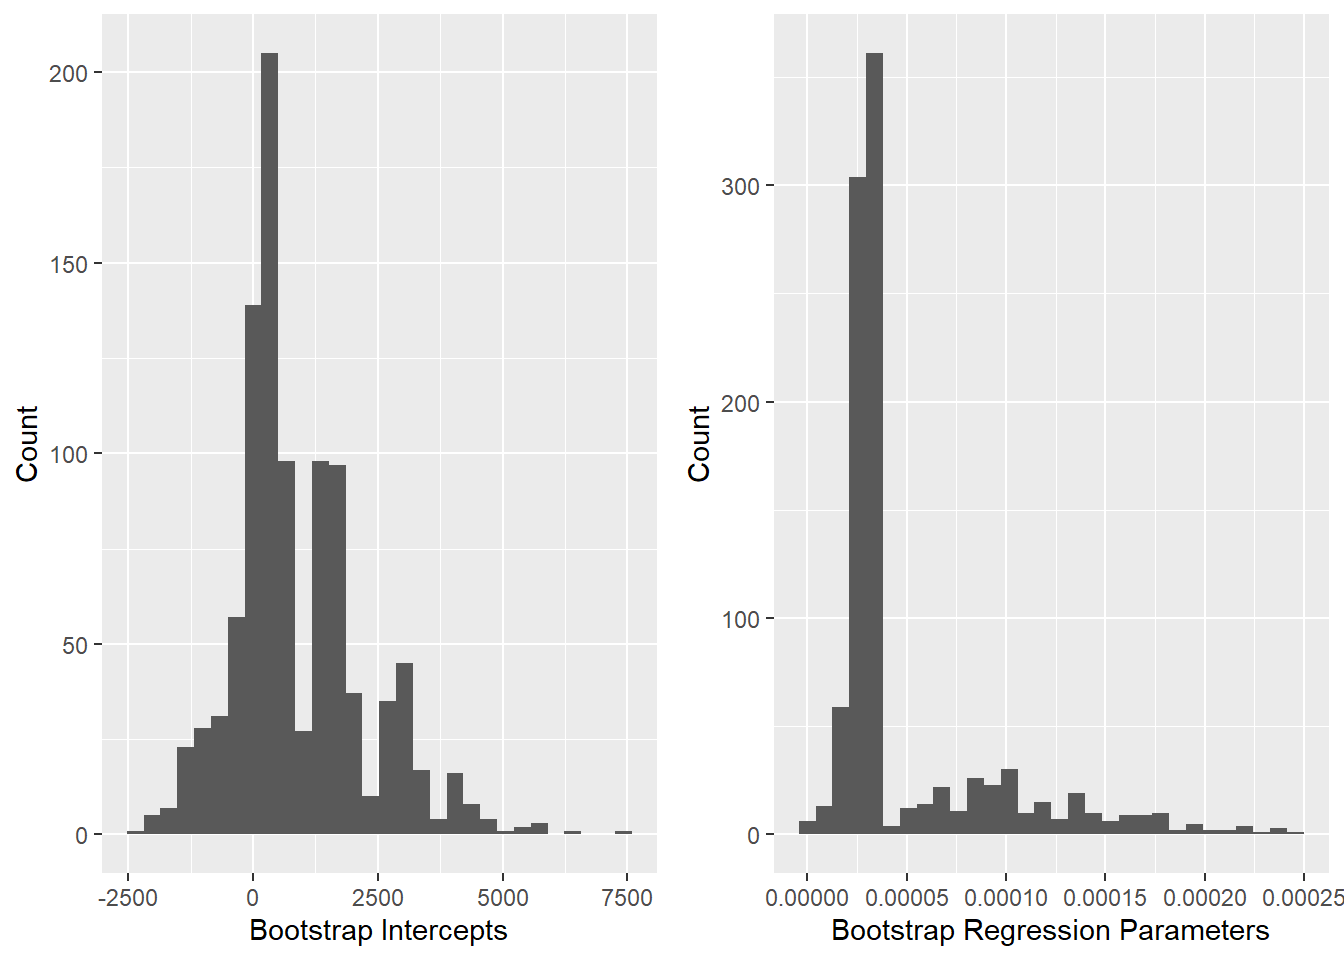
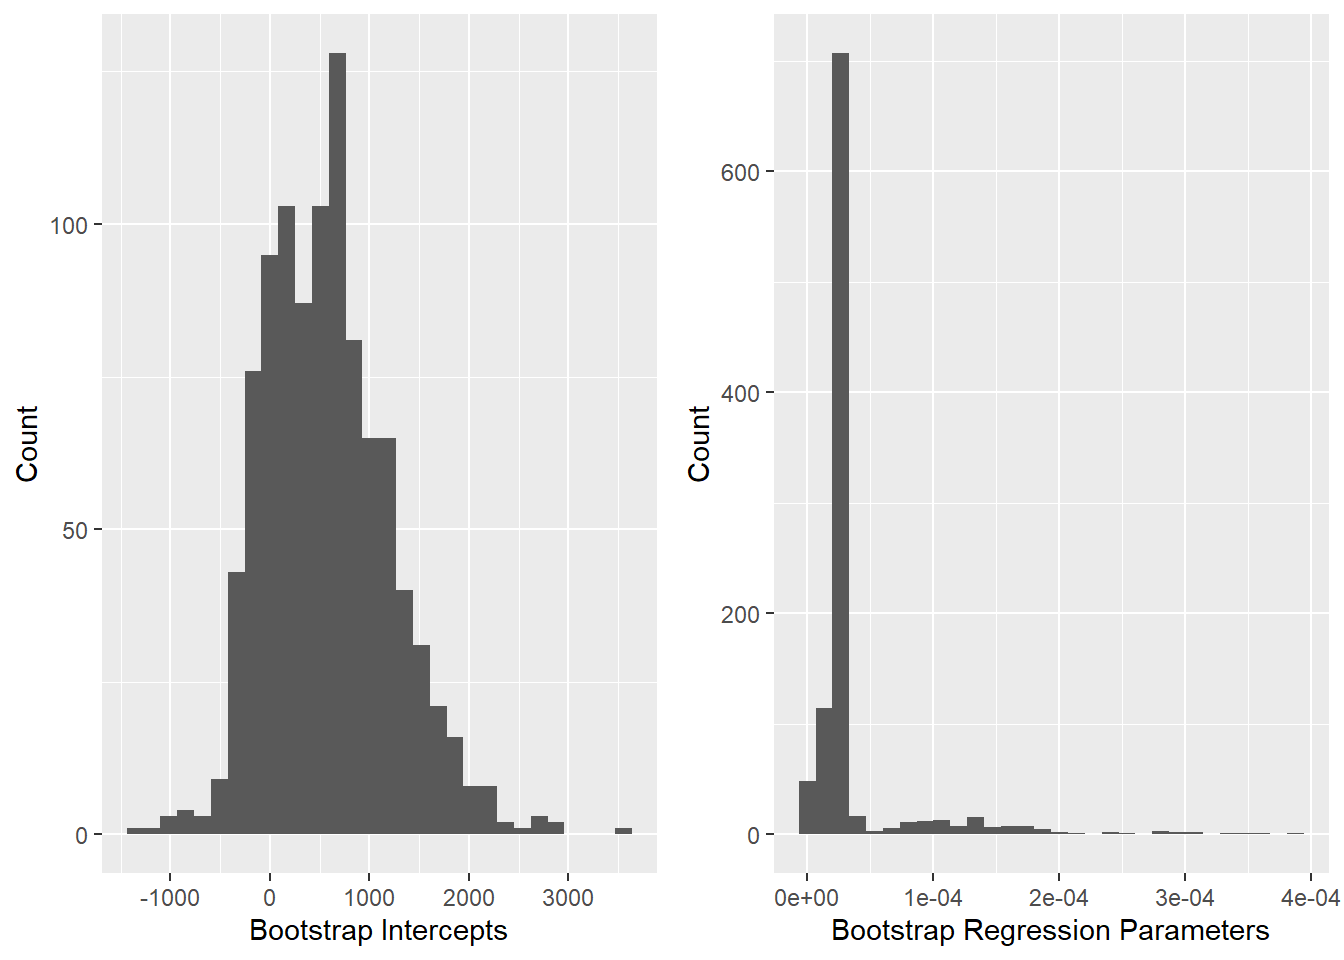
modify presentation path to work in github

diff --git a/Bootstrapping-Group-Report.html b/Bootstrapping-Group-Report.html
@@ -163,7 +163,7 @@ div.csl-indent {
 
 
 
-<p>View presentation <a href="/Bootstrapping-Group-Presentation.html">here</a>.</p>
+<p>View presentation <a href="/bootstrapping/Bootstrapping-Group-Presentation.html">here</a>.</p>
 <section id="introduction" class="level2">
 <h2 class="anchored" data-anchor-id="introduction">Introduction</h2>
 <p>Resampling is the process of creating new samples based on an observed sample to gather more information about either the sample or the population the sample came from. Resampling techniques like permutation tests, cross validation, and the jackknife have been prevalent in the statistics world for a while.</p>
@@ -383,12 +383,12 @@ div.csl-indent {
 <div class="sourceCode cell-code" id="cb7"><pre class="sourceCode r code-with-copy"><code class="sourceCode r"><span id="cb7-1"><a href="#cb7-1" aria-hidden="true" tabindex="-1"></a><span class="co"># Display some estimated means</span></span>
 <span id="cb7-2"><a href="#cb7-2" aria-hidden="true" tabindex="-1"></a><span class="fu">head</span>(boot_estimated_means)</span></code><button title="Copy to Clipboard" class="code-copy-button"><i class="bi"></i></button></pre></div>
 <div class="cell-output cell-output-stdout">
-<pre><code>[1] 0.3435974 0.3341793 0.3248992 0.3399096 0.3544415 0.3496752</code></pre>
+<pre><code>[1] 0.3560262 0.3591422 0.4005843 0.3786600 0.3728687 0.3217062</code></pre>
 </div>
 <div class="sourceCode cell-code" id="cb9"><pre class="sourceCode r code-with-copy"><code class="sourceCode r"><span id="cb9-1"><a href="#cb9-1" aria-hidden="true" tabindex="-1"></a><span class="co"># Display some estimated standard deviations</span></span>
 <span id="cb9-2"><a href="#cb9-2" aria-hidden="true" tabindex="-1"></a><span class="fu">head</span>(boot_estimated_sds)</span></code><button title="Copy to Clipboard" class="code-copy-button"><i class="bi"></i></button></pre></div>
 <div class="cell-output cell-output-stdout">
-<pre><code>[1] 0.11118865 0.14083212 0.08319958 0.10773652 0.09879535 0.08342002</code></pre>
+<pre><code>[1] 0.08782456 0.10642160 0.12351007 0.10787915 0.09384863 0.06597414</code></pre>
 </div>
 </div>
 <p>In order to create a 95% confidence interval for the population mean and standard deviation, the top and bottom 2.5% of saved means and standard deviations can be trimmed.</p>
@@ -403,13 +403,13 @@ div.csl-indent {
 <span id="cb11-8"><a href="#cb11-8" aria-hidden="true" tabindex="-1"></a>boot_estimated_means <span class="ot">&lt;-</span> boot_estimated_means[start<span class="sc">:</span>end]</span>
 <span id="cb11-9"><a href="#cb11-9" aria-hidden="true" tabindex="-1"></a>boot_estimated_sds <span class="ot">&lt;-</span> boot_estimated_sds[start<span class="sc">:</span>end]</span></code><button title="Copy to Clipboard" class="code-copy-button"><i class="bi"></i></button></pre></div>
 </div>
-<p>Now, by retrieving the first and last element in both the mean and standard deviation vectors, the 95% estimated population intervals can be constructed. The 95% confidence interval for the population mean is [0.2953, 0.3819] or [29.53%, 38.19%]. The 95% confidence interval for the population standard deviation is [0.0651, 0.1356] or [6.51%, 13.56%].</p>
+<p>Now, by retrieving the first and last element in both the mean and standard deviation vectors, the 95% estimated population intervals can be constructed. The 95% confidence interval for the population mean is [0.3181, 0.4141] or [31.81%, 41.41%]. The 95% confidence interval for the population standard deviation is [0.0729, 0.1419] or [7.29%, 14.19%].</p>
 <p>To evaluate the accuracy of the estimated population mean and standard deviation for the rate of deaths caused by cardiovascular diseases, the population mean and standard deviation found from the full population can be compared to the estimated confidence intervals. The true population statistics should fall within the confidence interval range. In this case:</p>
 <center>
-<span class="math inline">\(0.2953 &gt; 0.3273 &gt; 0.3819\)</span>
+<span class="math inline">\(0.3181 &gt; 0.3273 &gt; 0.4141\)</span>
 </center>
 <center>
-<span class="math inline">\(0.0651 &gt; 0.1309 &gt; 0.1356\)</span>
+<span class="math inline">\(0.0729 &gt; 0.1309 &gt; 0.1419\)</span>
 </center>
 <div class="cell">
 <div class="sourceCode cell-code" id="cb12"><pre class="sourceCode r code-with-copy"><code class="sourceCode r"><span id="cb12-1"><a href="#cb12-1" aria-hidden="true" tabindex="-1"></a><span class="co"># Display a histogram of the estimated means from the Bootstrap samples</span></span>
@@ -470,14 +470,14 @@ div.csl-indent {
 <tr class="odd">
 <td>(Intercept)</td>
 <td>1183.7272946</td>
-<td>1526.9626562</td>
-<td>896.5642123</td>
+<td>645.2881166</td>
+<td>578.8878692</td>
 </tr>
 <tr class="even">
 <td>x</td>
 <td>2.4147731^{-5}</td>
-<td>3.0061379^{-5}</td>
-<td>4.9659152^{-5}</td>
+<td>2.943504^{-5}</td>
+<td>3.9369268^{-5}</td>
 </tr>
 </tbody>
 </table>
@@ -796,7 +796,7 @@ window.document.addEventListener("DOMContentLoaded", function (event) {
 <span id="cb17-17"><a href="#cb17-17" aria-hidden="true" tabindex="-1"></a><span class="an">bibliography:</span><span class="co"> references.bib </span></span>
 <span id="cb17-18"><a href="#cb17-18" aria-hidden="true" tabindex="-1"></a><span class="co">---</span></span>
 <span id="cb17-19"><a href="#cb17-19" aria-hidden="true" tabindex="-1"></a></span>
-<span id="cb17-20"><a href="#cb17-20" aria-hidden="true" tabindex="-1"></a>View presentation <span class="co">[</span><span class="ot">here</span><span class="co">](/Bootstrapping-Group-Presentation.html)</span>.</span>
+<span id="cb17-20"><a href="#cb17-20" aria-hidden="true" tabindex="-1"></a>View presentation <span class="co">[</span><span class="ot">here</span><span class="co">](/bootstrapping/Bootstrapping-Group-Presentation.html)</span>.</span>
 <span id="cb17-21"><a href="#cb17-21" aria-hidden="true" tabindex="-1"></a></span>
 <span id="cb17-22"><a href="#cb17-22" aria-hidden="true" tabindex="-1"></a><span class="fu">## Introduction</span></span>
 <span id="cb17-23"><a href="#cb17-23" aria-hidden="true" tabindex="-1"></a></span>
